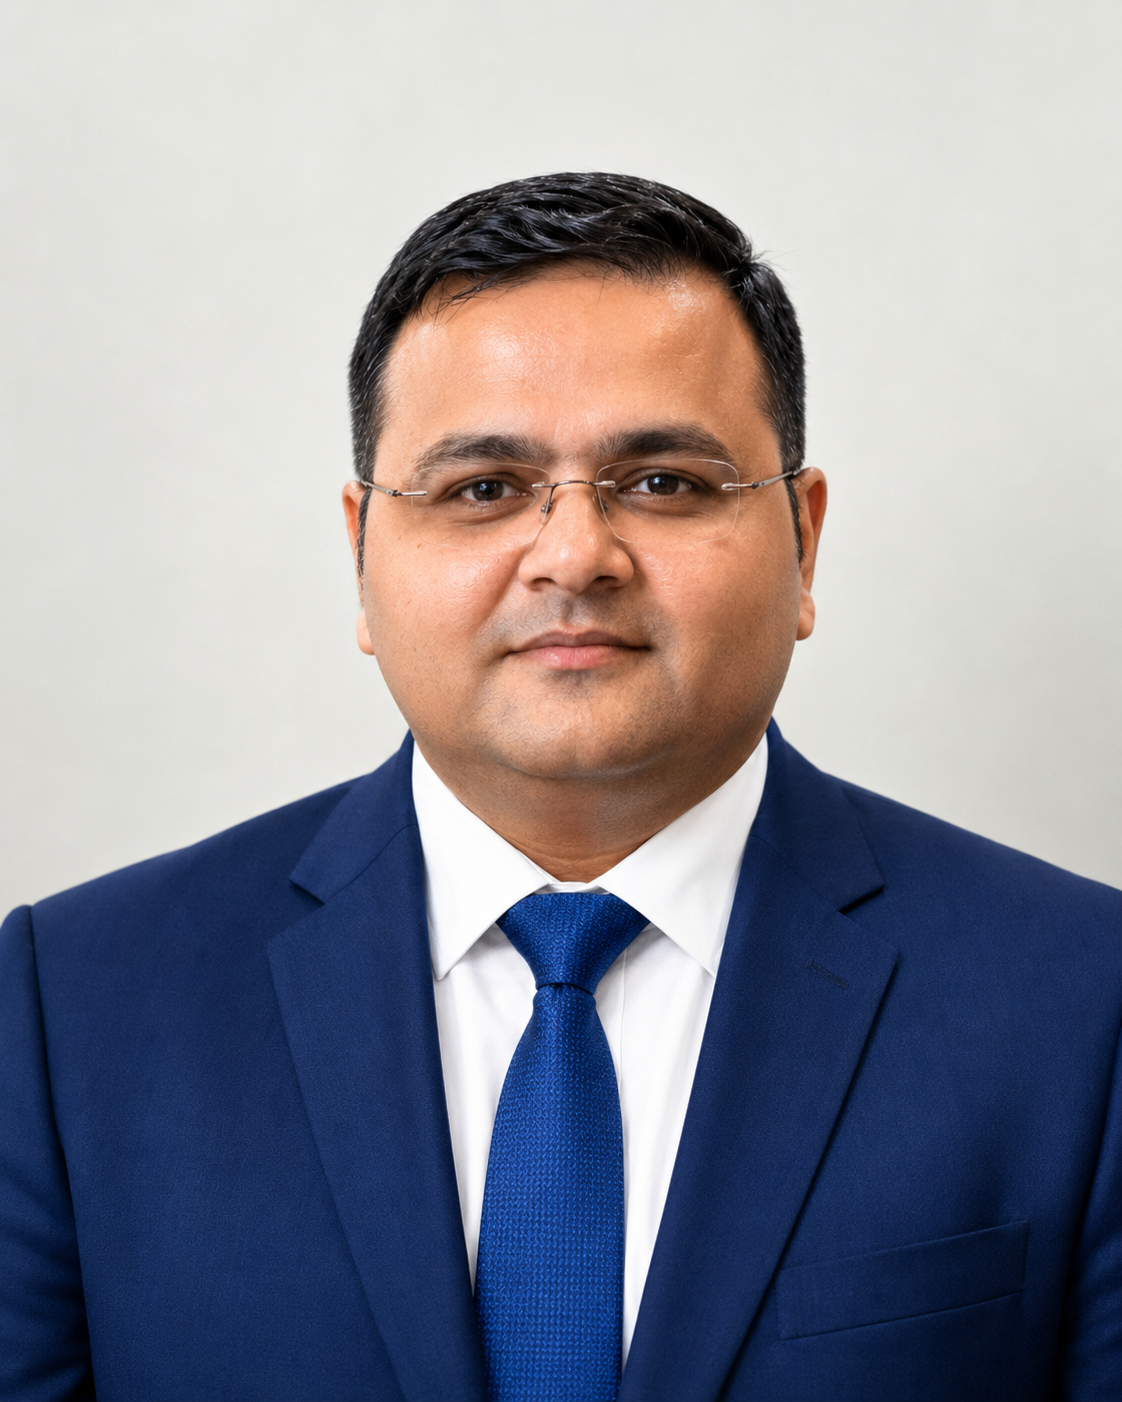
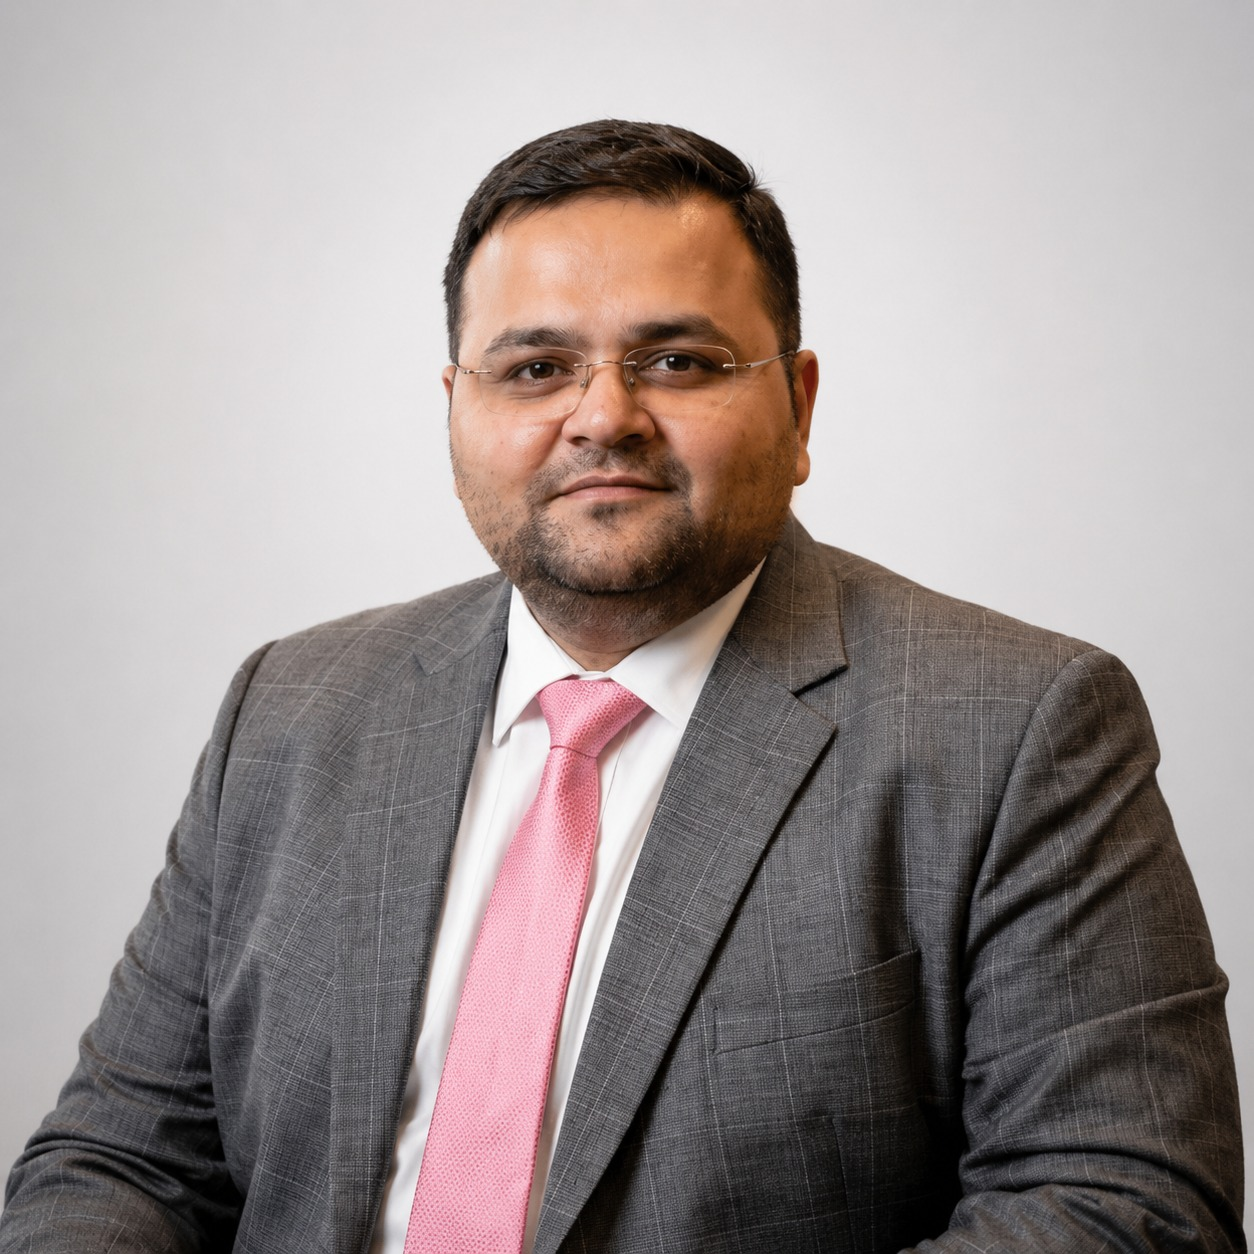
updated rohit sir

diff --git a/src/sections/Hero.tsx b/src/sections/Hero.tsx
@@ -38,54 +38,74 @@ export const Hero: React.FC = () => {
     const statsBars = section.querySelectorAll('.animate-stats-bar');
     const credentials = section.querySelectorAll('.animate-credentials');
 
+    const isVisible = (el: Element) => window.getComputedStyle(el).display !== 'none';
+
     taglines.forEach((el) => {
-      const anim = fadeIn(el as HTMLElement, undefined, 0.1);
-      if (anim) cleanups.push(anim.kill);
+      if (isVisible(el)) {
+        const anim = fadeIn(el as HTMLElement, undefined, 0.1);
+        if (anim) cleanups.push(anim.kill);
+      }
     });
 
     titles.forEach((el) => {
-      const anim = splitReveal(el as HTMLElement, 0.2);
-      if (anim) cleanups.push(anim.kill);
+      if (isVisible(el)) {
+        const anim = splitReveal(el as HTMLElement, 0.2);
+        if (anim) cleanups.push(anim.kill);
+      }
     });
 
     descs.forEach((el) => {
-      const anim = fadeIn(el as HTMLElement, undefined, 0.45);
-      if (anim) cleanups.push(anim.kill);
+      if (isVisible(el)) {
+        const anim = fadeIn(el as HTMLElement, undefined, 0.45);
+        if (anim) cleanups.push(anim.kill);
+      }
     });
 
     buttons.forEach((el) => {
-      const anim = fadeIn(el as HTMLElement, undefined, 0.6);
-      if (anim) cleanups.push(anim.kill);
+      if (isVisible(el)) {
+        const anim = fadeIn(el as HTMLElement, undefined, 0.6);
+        if (anim) cleanups.push(anim.kill);
+      }
     });
 
     imageFrames.forEach((el) => {
-      const anim = fadeIn(el as HTMLElement, undefined, 0.65);
-      if (anim) cleanups.push(anim.kill);
+      if (isVisible(el)) {
+        const anim = fadeIn(el as HTMLElement, undefined, 0.65);
+        if (anim) cleanups.push(anim.kill);
+      }
     });
 
     trustGrids.forEach((el) => {
-      const anim = fadeIn(el as HTMLElement, undefined, 0.75);
-      if (anim) cleanups.push(anim.kill);
+      if (isVisible(el)) {
+        const anim = fadeIn(el as HTMLElement, undefined, 0.75);
+        if (anim) cleanups.push(anim.kill);
+      }
     });
 
     statsBars.forEach((el) => {
-      const anim = fadeIn(el as HTMLElement, undefined, 0.85);
-      if (anim) cleanups.push(anim.kill);
+      if (isVisible(el)) {
+        const anim = fadeIn(el as HTMLElement, undefined, 0.85);
+        if (anim) cleanups.push(anim.kill);
+      }
     });
 
     credentials.forEach((el) => {
-      const anim = fadeIn(el as HTMLElement, undefined, 0.95);
-      if (anim) cleanups.push(anim.kill);
+      if (isVisible(el)) {
+        const anim = fadeIn(el as HTMLElement, undefined, 0.95);
+        if (anim) cleanups.push(anim.kill);
+      }
     });
 
     // Stats Bar counter animation trigger
     const statCounters = section.querySelectorAll('.hero-stat-counter');
     statCounters.forEach((el) => {
-      const targetVal = parseFloat(el.getAttribute('data-target') || '0');
-      const suffix = el.getAttribute('data-suffix') || '';
-      if (targetVal) {
-        const anim = counter(el as HTMLElement, targetVal, suffix);
-        if (anim) cleanups.push(anim.kill);
+      if (isVisible(el)) {
+        const targetVal = parseFloat(el.getAttribute('data-target') || '0');
+        const suffix = el.getAttribute('data-suffix') || '';
+        if (targetVal) {
+          const anim = counter(el as HTMLElement, targetVal, suffix);
+          if (anim) cleanups.push(anim.kill);
+        }
       }
     });
 
@@ -172,7 +192,7 @@ export const Hero: React.FC = () => {
 
             {/* Typography Heading */}
             <h1
-              className="font-serif lg:text-[62px] xl:text-[66px] text-[#071D49] leading-[1.1] font-medium tracking-tight mt-0 animate-title"
+              className="font-serif text-5xl lg:text-[52px] xl:text-[66px] text-[#071D49] leading-[1.15] font-medium tracking-normal mt-0 animate-title"
             >
               Audit Excellence.<br />
               <span className="font-serif italic font-normal text-[#071D49]">Business Growth</span>
@@ -197,7 +217,7 @@ export const Hero: React.FC = () => {
 
             {/* Action buttons */}
             <div
-              className="flex flex-row items-center space-x-md w-auto pt-xs animate-buttons opacity-0"
+              className="flex flex-wrap items-center gap-4 pt-xs animate-buttons opacity-0"
             >
               <Link
                 to="/contact"
@@ -345,14 +365,14 @@ export const Hero: React.FC = () => {
                 <div className="flex flex-col">
                   {item.val !== null ? (
                     <span 
-                      className="hero-stat-counter font-sans text-base md:text-lg font-bold text-white leading-tight"
+                      className="hero-stat-counter font-sans text-sm font-bold text-white leading-tight whitespace-nowrap"
                       data-target={item.val}
                       data-suffix={item.suffix}
                     >
                       {item.displayVal}
                     </span>
                   ) : (
-                    <span className="font-sans text-base md:text-lg font-bold text-white leading-tight">
+                    <span className="font-sans text-sm font-bold text-white leading-tight whitespace-nowrap">
                       {item.displayVal}
                     </span>
                   )}
@@ -524,7 +544,7 @@ font-medium leading-none mt-1">
         <div className="w-full animate-fade-in pb-2 mt-2">
           <div 
             data-theme="dark"
-            className="w-full bg-[#071D49] rounded-xl border border-white/5 shadow-[0_16px_36px_-8px_rgba(7,29,73,0.12)] relative z-10 select-none grid grid-cols-2 sm:grid-cols-3 md:flex md:flex-row md:items-center py-6 gap-y-6 md:py-0 md:h-[80px] md:gap-y-0"
+            className="w-full bg-[#071D49] rounded-xl border border-white/5 shadow-[0_16px_36px_-8px_rgba(7,29,73,0.12)] relative z-10 select-none grid grid-cols-2 lg:flex lg:flex-row lg:items-center py-6 gap-y-6 lg:py-0 lg:h-[80px] lg:gap-y-0"
           >
             {[
               { val: 10, suffix: '+', displayVal: '10+', label: 'Years of Experience', icon: Trophy },
@@ -536,9 +556,9 @@ font-medium leading-none mt-1">
               <div 
                 key={idx} 
                 className={cn(
-                  "flex items-center space-x-3 justify-start px-5 md:px-6 h-full text-left border-white/10 w-full md:w-auto md:justify-center md:flex-1",
-                  idx !== 4 ? "md:border-r" : "",
-                  idx === 4 ? "col-span-2 sm:col-span-1 md:col-span-auto" : "" 
+                  "flex items-center space-x-3 justify-start px-5 md:px-6 h-full text-left border-white/10 w-full lg:w-auto lg:justify-center lg:flex-1",
+                  idx !== 4 ? "lg:border-r" : "",
+                  idx === 4 ? "col-span-2 lg:col-span-1 justify-center" : "" 
                 )}
               >
                 <div className="w-[32px] h-[32px] rounded-full bg-white/5 border border-white/10 flex items-center justify-center shrink-0">
@@ -558,7 +578,7 @@ font-medium leading-none mt-1">
                       item.displayVal
                     )}
                   </span>
-                  <span className="font-sans text-[9px] md:text-[10px] text-white/60 tracking-wider uppercase mt-[2px] leading-tight">
+                  <span className="font-sans text-[9px] lg:text-[10px] text-white/60 tracking-wider uppercase mt-[2px] leading-tight">
                     {item.label}
                   </span>
                 </div>

diff --git a/src/pages/About.tsx b/src/pages/About.tsx
@@ -353,7 +353,7 @@ export default function About() {
               <div className="aspect-[4/5] rounded-card-lg overflow-hidden shadow-premium-lg relative">
                 <div className="image-reveal-overlay absolute inset-0 bg-bg-base z-20 origin-top"></div>
                 <img 
-                  src="/assets/images/about/firm_overview.jpeg" 
+                  src="/assets/images/about/firm.png" 
                   alt="Professional corporate meeting" 
                   className="object-cover w-full h-full hover:scale-105 transition-transform duration-700"
                 />